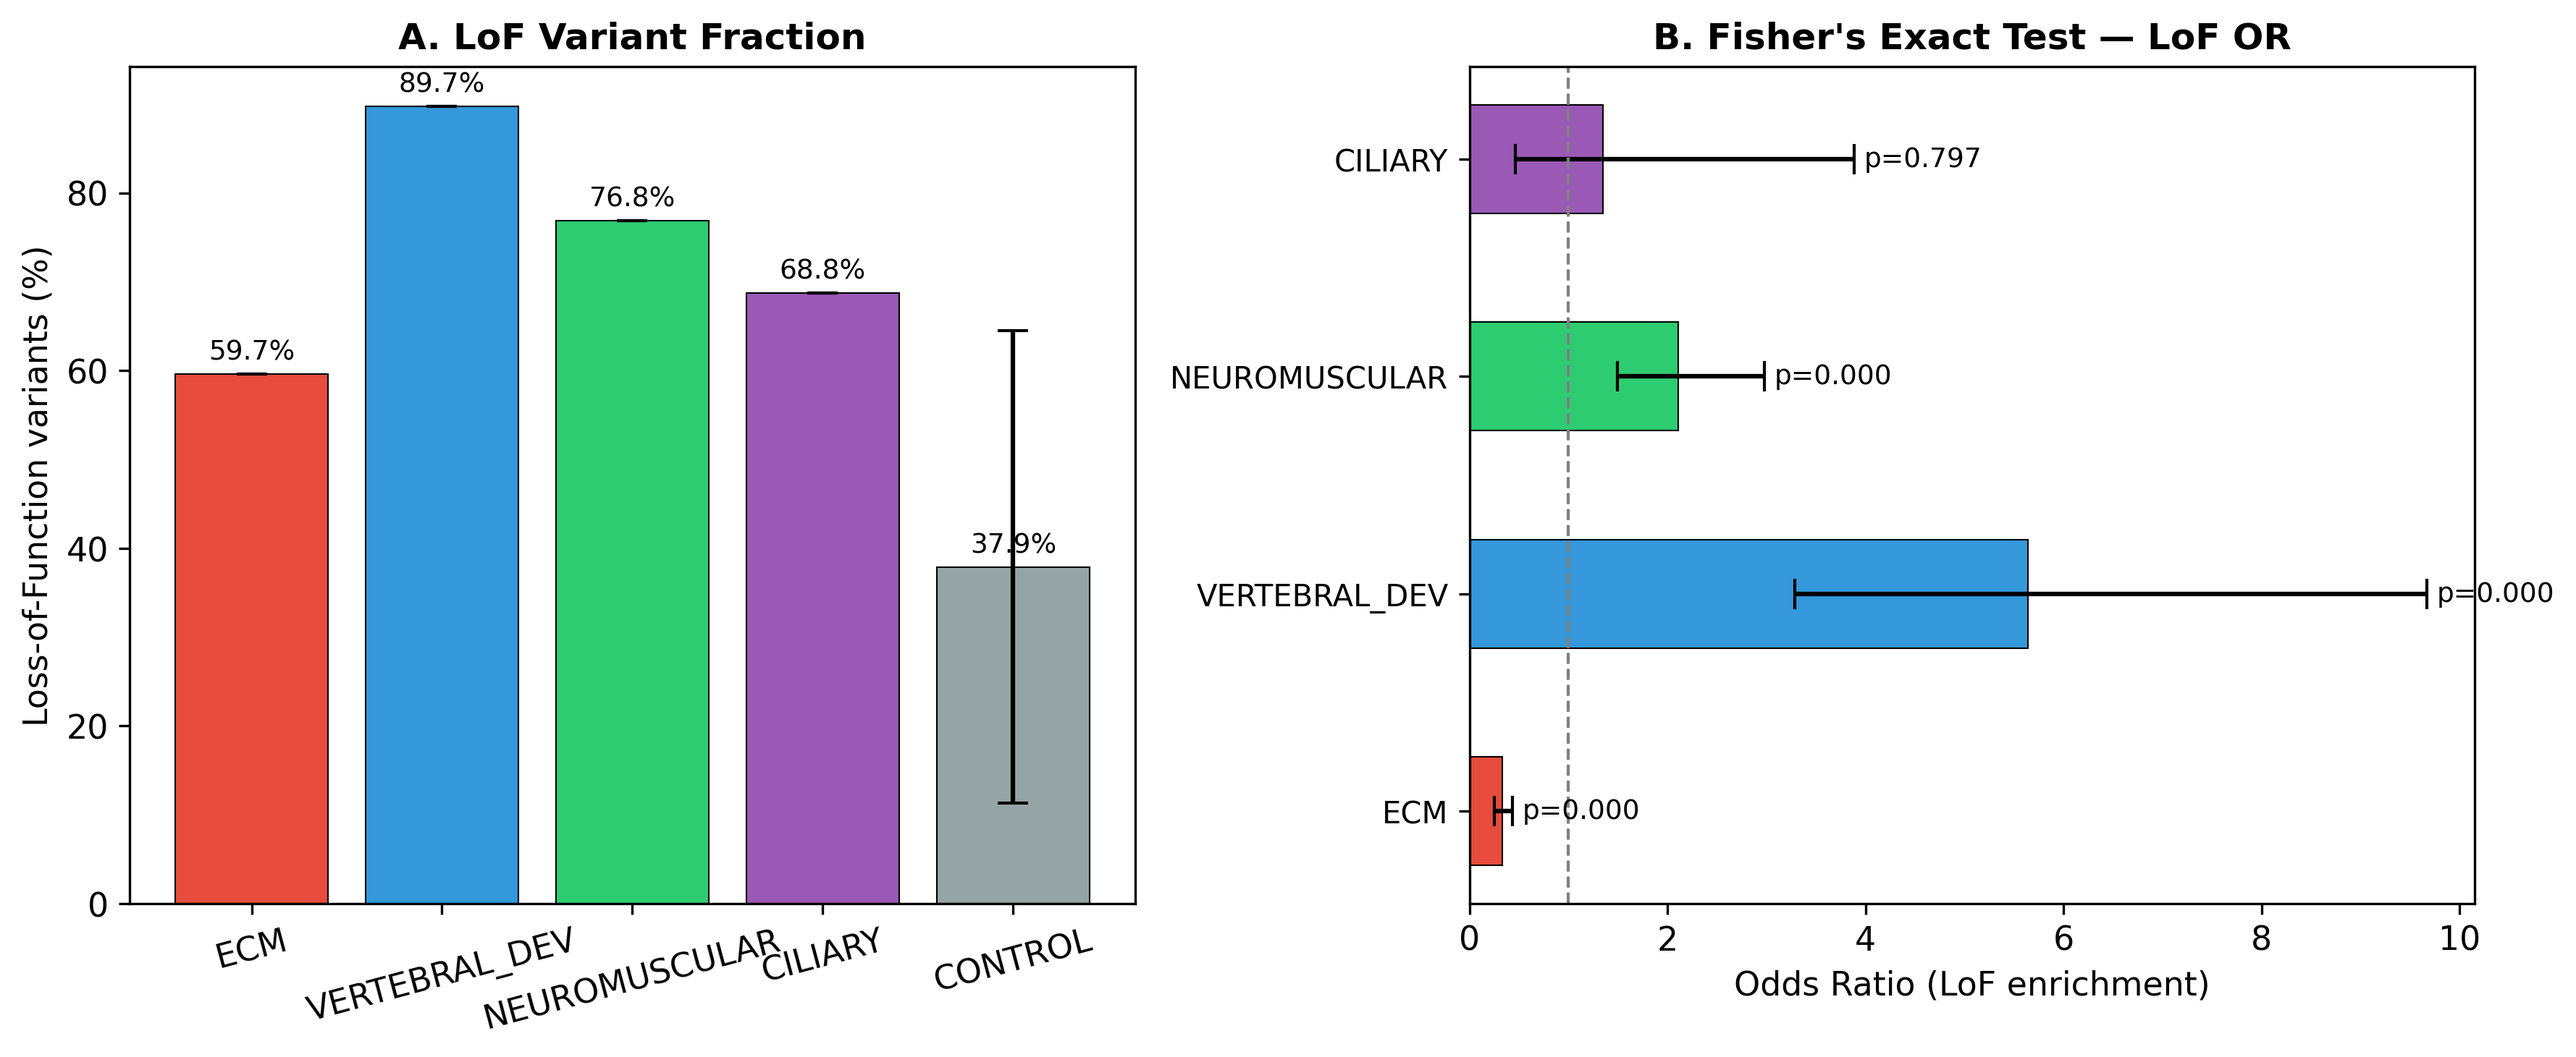
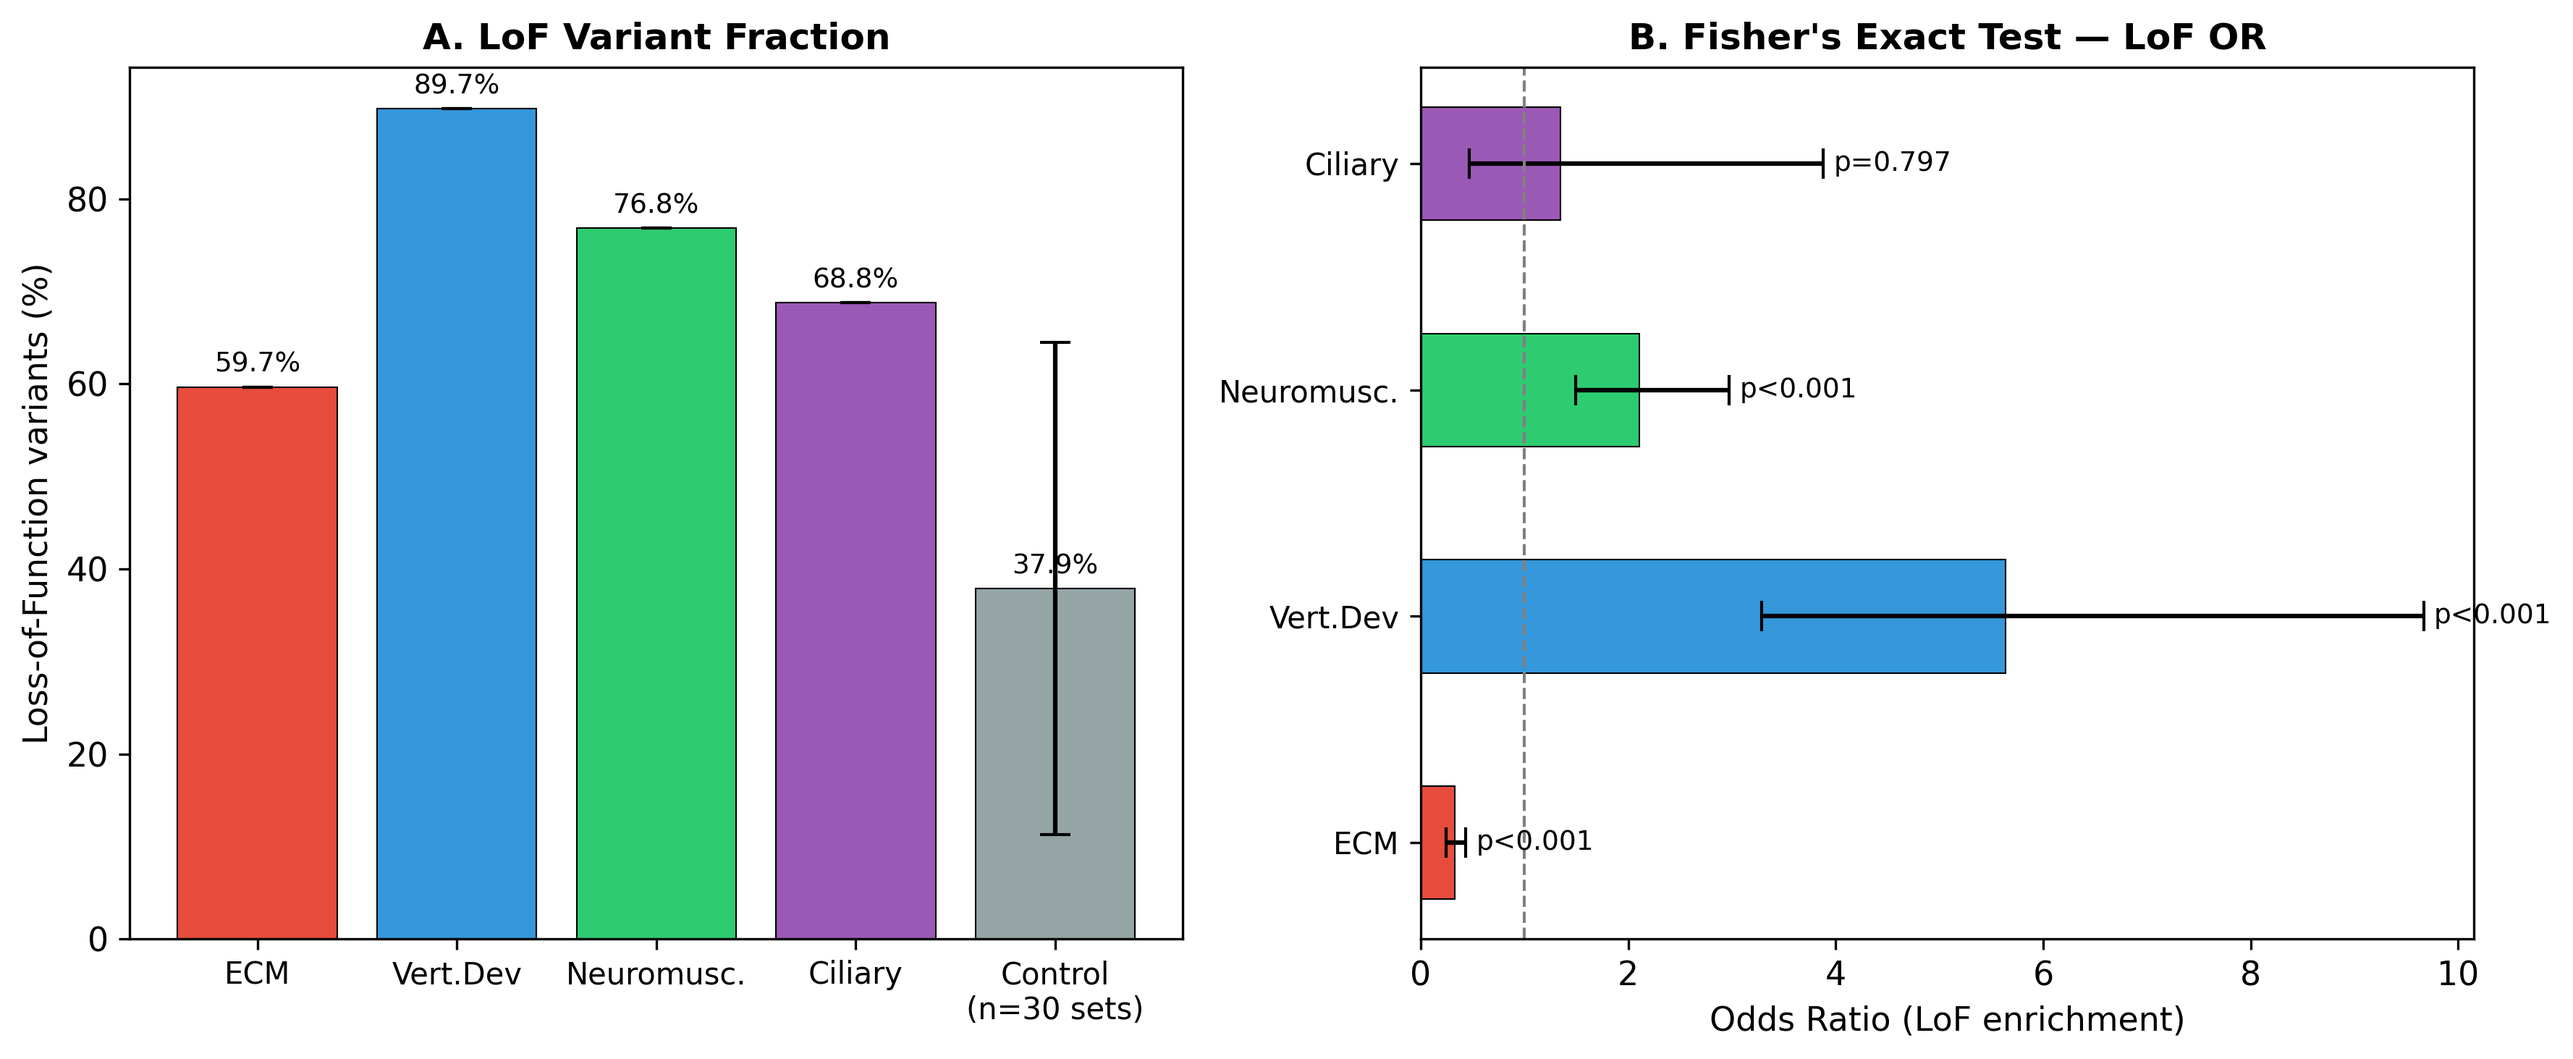
Fix poster figures: normalized fig1, adjustText fig2, p<0.001 fig5
- Fig 1: two-panel (A: absolute counts with n=, B: 100% normalized)
  so CILIARY (n=16) is visually comparable to ECM (n=2860)
- Fig 2: adjustText spreads overlapping gene labels with connector lines
- Fig 5: p<0.001 instead of p=0.000, Control bar labeled (n=30 sets)
- All figures: shortened subtype labels (Vert.Dev, Neuromusc., Ciliary)
- Fig 3: short labels + fmt_pvalue in permutation test legend

diff --git a/07_figures.py b/07_figures.py
@@ -21,6 +21,13 @@ import numpy as np
 import pandas as pd
 from scipy import stats
 
+try:
+    from adjustText import adjust_text
+    HAS_ADJUST_TEXT = True
+except ImportError:
+    HAS_ADJUST_TEXT = False
+    print("  Note: pip install adjustText for better gene labels on UMAP")
+
 matplotlib.rcParams["font.size"] = 11
 matplotlib.rcParams["font.family"] = "sans-serif"
 matplotlib.rcParams["axes.linewidth"] = 0.8
@@ -40,12 +47,22 @@ COLORS = {
 }
 
 SUBTYPES = ["ECM", "VERTEBRAL_DEV", "NEUROMUSCULAR", "CILIARY"]
+SHORT_LABELS = {"ECM": "ECM", "VERTEBRAL_DEV": "Vert.Dev",
+                "NEUROMUSCULAR": "Neuromusc.", "CILIARY": "Ciliary",
+                "CONTROL": "Control"}
 FIGSIZE = (8, 5)
 DPI = 300
 
 
+def fmt_pvalue(p):
+    """Format p-value: p<0.001 instead of p=0.000."""
+    if p < 0.001:
+        return "p<0.001"
+    return f"p={p:.3f}"
+
+
 def fig1_variant_distribution(df):
-    """Stacked bar: variant type counts per subtype."""
+    """Two-panel stacked bar: A) absolute counts, B) normalized proportions."""
     print("  Creating Fig 1: Variant Distribution...")
 
     cons_types = ["missense", "nonsense", "frameshift", "splice",
@@ -60,36 +77,63 @@ def fig1_variant_distribution(df):
         "other": "#BDC3C7",
     }
 
-    fig, ax = plt.subplots(figsize=FIGSIZE)
+    fig, (ax1, ax2) = plt.subplots(1, 2, figsize=(14, 5))
 
     # Count variants per subtype and consequence
     plot_data = {}
+    totals = {}
     for subtype in SUBTYPES:
         sub_df = df[df["subtype"] == subtype]
         counts = sub_df["consequence_cat"].value_counts()
         plot_data[subtype] = {ct: counts.get(ct, 0) for ct in cons_types}
+        totals[subtype] = len(sub_df)
 
     x = np.arange(len(SUBTYPES))
+    short = [SHORT_LABELS[s] for s in SUBTYPES]
     width = 0.6
-    bottoms = np.zeros(len(SUBTYPES))
 
+    # Panel A: Absolute counts
+    bottoms_a = np.zeros(len(SUBTYPES))
     for cons_type in cons_types:
         values = [plot_data[s].get(cons_type, 0) for s in SUBTYPES]
         if sum(values) == 0:
             continue
-        ax.bar(x, values, width, bottom=bottoms,
-               color=cons_colors.get(cons_type, "#BDC3C7"),
-               edgecolor="white", linewidth=0.5,
-               label=cons_type.capitalize())
-        bottoms += values
+        ax1.bar(x, values, width, bottom=bottoms_a,
+                color=cons_colors.get(cons_type, "#BDC3C7"),
+                edgecolor="white", linewidth=0.5,
+                label=cons_type.capitalize())
+        bottoms_a += values
 
-    ax.set_xticks(x)
-    ax.set_xticklabels(SUBTYPES, fontsize=10, rotation=15)
-    ax.set_ylabel("Number of Pathogenic Variants", fontsize=11)
-    ax.set_title("Variant Type Distribution by Scoliosis Subtype",
-                 fontsize=12, fontweight="bold")
-    ax.legend(fontsize=9, bbox_to_anchor=(1.02, 1), loc="upper left",
-              frameon=True, fancybox=True)
+    # Add n= annotations
+    for i, subtype in enumerate(SUBTYPES):
+        ax1.text(i, bottoms_a[i] + 10, f"n={totals[subtype]}",
+                 ha="center", va="bottom", fontsize=9, fontweight="bold")
+
+    ax1.set_xticks(x)
+    ax1.set_xticklabels(short, fontsize=10)
+    ax1.set_ylabel("Number of Pathogenic Variants", fontsize=11)
+    ax1.set_title("A. Variant Counts", fontsize=12, fontweight="bold")
+    ax1.legend(fontsize=8, bbox_to_anchor=(1.02, 1), loc="upper left",
+               frameon=True, fancybox=True)
+
+    # Panel B: Normalized 100%
+    bottoms_b = np.zeros(len(SUBTYPES))
+    for cons_type in cons_types:
+        values_raw = [plot_data[s].get(cons_type, 0) for s in SUBTYPES]
+        values_pct = [v / totals[s] * 100 if totals[s] > 0 else 0
+                      for v, s in zip(values_raw, SUBTYPES)]
+        if sum(values_raw) == 0:
+            continue
+        ax2.bar(x, values_pct, width, bottom=bottoms_b,
+                color=cons_colors.get(cons_type, "#BDC3C7"),
+                edgecolor="white", linewidth=0.5)
+        bottoms_b += values_pct
+
+    ax2.set_xticks(x)
+    ax2.set_xticklabels(short, fontsize=10)
+    ax2.set_ylabel("Proportion (%)", fontsize=11)
+    ax2.set_title("B. Variant Type Proportions", fontsize=12, fontweight="bold")
+    ax2.set_ylim(0, 105)
 
     plt.tight_layout()
     plt.savefig(FIG_DIR / "fig1_variant_distribution.png", dpi=DPI,
@@ -115,21 +159,26 @@ def fig2_umap(df_genes):
                    label="Control genes", zorder=1)
 
     # Scoliosis genes
+    texts = []
     for subtype in SUBTYPES:
         subset = df_genes[df_genes["subtype"] == subtype]
         if len(subset) == 0:
             continue
         ax.scatter(subset["umap_1"], subset["umap_2"],
                    c=COLORS[subtype], s=90, edgecolors="black",
-                   linewidth=0.6, label=subtype, zorder=2)
+                   linewidth=0.6, label=SHORT_LABELS.get(subtype, subtype),
+                   zorder=2)
         for _, row in subset.iterrows():
-            ax.annotate(
-                row["gene"],
-                (row["umap_1"], row["umap_2"]),
-                fontsize=7, ha="center", va="bottom",
-                xytext=(0, 6), textcoords="offset points",
-                fontweight="bold",
-            )
+            t = ax.text(row["umap_1"], row["umap_2"], row["gene"],
+                        fontsize=7, fontweight="bold", ha="center", va="bottom")
+            texts.append(t)
+
+    # Spread overlapping labels
+    if HAS_ADJUST_TEXT and texts:
+        adjust_text(texts, ax=ax,
+                    arrowprops=dict(arrowstyle="-", color="gray", lw=0.5),
+                    force_text=(0.8, 0.8), force_points=(0.3, 0.3),
+                    expand=(1.5, 1.5))
 
     ax.set_xlabel("UMAP 1", fontsize=11)
     ax.set_ylabel("UMAP 2", fontsize=11)
@@ -177,7 +226,7 @@ def fig3_permutation(df):
     for subtype in SUBTYPES:
         if subtype in subtype_af:
             p_emp = (control_af_means <= subtype_af[subtype]).sum() / len(control_af_means)
-            label = f"{subtype} (p={p_emp:.3f})"
+            label = f"{SHORT_LABELS.get(subtype, subtype)} ({fmt_pvalue(p_emp)})"
             ax.axvline(subtype_af[subtype], color=COLORS[subtype],
                        linewidth=2.5, linestyle="--", label=label)
 
@@ -282,21 +331,24 @@ def fig5_lof_enrichment(df):
     ctrl_median = np.median(ctrl_lof) if ctrl_lof else 0
     ctrl_std = np.std(ctrl_lof) if ctrl_lof else 0
 
-    bar_x = SUBTYPES + ["CONTROL"]
+    bar_labels_raw = SUBTYPES + ["CONTROL"]
+    n_ctrl = len(ctrl_lof)
+    bar_labels = [SHORT_LABELS[s] for s in SUBTYPES] + [f"Control\n(n={n_ctrl} sets)"]
     bar_vals = [lof_pcts.get(s, 0) for s in SUBTYPES] + [ctrl_median]
     bar_errs = [0] * len(SUBTYPES) + [ctrl_std]
-    bar_cols = [COLORS[s] for s in bar_x]
+    bar_cols = [COLORS[s] for s in bar_labels_raw]
 
-    bars = ax1.bar(bar_x, bar_vals, color=bar_cols,
+    bars = ax1.bar(range(len(bar_vals)), bar_vals, color=bar_cols,
                    edgecolor="black", linewidth=0.5,
                    yerr=bar_errs, capsize=5)
     for bar, val in zip(bars, bar_vals):
         ax1.text(bar.get_x() + bar.get_width() / 2, bar.get_height() + 1,
                  f"{val:.1f}%", ha="center", va="bottom", fontsize=9)
 
+    ax1.set_xticks(range(len(bar_labels)))
+    ax1.set_xticklabels(bar_labels, fontsize=10)
     ax1.set_ylabel("Loss-of-Function variants (%)", fontsize=11)
     ax1.set_title("A. LoF Variant Fraction", fontsize=12, fontweight="bold")
-    ax1.tick_params(axis="x", rotation=15)
 
     # Right panel: Fisher OR with CI
     fisher_data = []
@@ -350,14 +402,14 @@ def fig5_lof_enrichment(df):
                      fmt="none", color="black", capsize=5, linewidth=1.5)
         ax2.axvline(1.0, color="gray", linestyle="--", linewidth=1)
         ax2.set_yticks(y_pos)
-        ax2.set_yticklabels(labels, fontsize=10)
+        ax2.set_yticklabels([SHORT_LABELS.get(l, l) for l in labels], fontsize=10)
         ax2.set_xlabel("Odds Ratio (LoF enrichment)", fontsize=11)
         ax2.set_title("B. Fisher's Exact Test — LoF OR",
                       fontsize=12, fontweight="bold")
 
         # Add p-value annotations
         for i, d in enumerate(fisher_data):
-            p_text = f"p={d['p']:.3f}"
+            p_text = fmt_pvalue(d["p"])
             ax2.text(d["ci_upper"] + 0.1, i, p_text, va="center", fontsize=9)
 
     plt.tight_layout()
